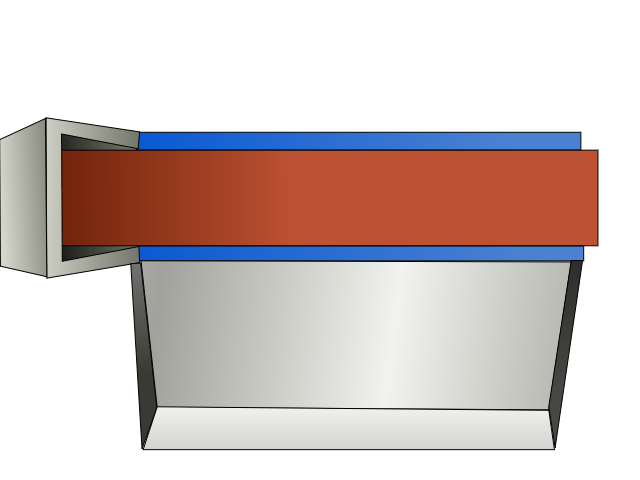
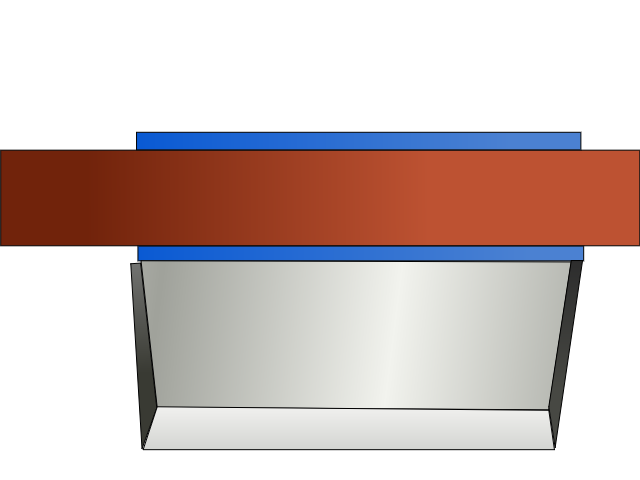
Improve assets + condiment placement + reset burger

Changed region(s): [[0.0, 0.2188, 0.2188, 0.5938], [0.375, 0.3125, 0.5, 0.5312], [0.9062, 0.3125, 1.0, 0.5312]]

diff --git a/js/app.js b/js/app.js
@@ -14,6 +14,8 @@ var game = new Phaser.Game(
 var sprites = [
   'floor',
   'assembly_line',
+  'oven',
+  'inner_oven',
   'patties',
   'cheeses',
   'lettuces',
@@ -21,17 +23,20 @@ var sprites = [
   'tomatoes',
   'top_bun',
   'bottom_bun',
-  'mayo',
-  'mustard',
-  'ketchup',
+  'mayo_bottle1',
+  'mustard_bottle1',
+  'ketchup_bottle1',
   'patty',
   'cheese',
   'lettuce',
   'onion',
   'tomato',
-  'ketchup_bottle',
-  'mayo_bottle',
-  'mustard_bottle'
+  'ketchup_bottle2',
+  'mayo_bottle2',
+  'mustard_bottle2',
+  'ketchup',
+  'mayo',
+  'mustard'
 ];
 
 var ingredientMap = {
@@ -42,9 +47,17 @@ var ingredientMap = {
   'tomatoes': 'tomato',
   'top_bun': 'top_bun',
   'bottom_bun': 'bottom_bun',
-  'ketchup': 'ketchup_bottle',
-  'mayo': 'mayo_bottle',
-  'mustard': 'mustard_bottle',
+  'ketchup_bottle1': 'ketchup_bottle2',
+  'mayo_bottle1': 'mayo_bottle2',
+  'mustard_bottle1': 'mustard_bottle2',
+  'ketchup_bottle2': 'ketchup',
+  'mayo_bottle2': 'mayo',
+  'mustard_bottle2': 'mustard'
+};
+
+
+var config = {
+  HAMBURGER_SPEED: 0.5
 };
 
 var floor;
@@ -55,14 +68,14 @@ var cheeses;
 var lettuces;
 var onions;
 var tomatoes;
-var top_buns;
-var bottom_buns;
+var topBuns;
+var bottomBuns;
 var mustard;
 var ketchup;
 var mayo;
 
 var selectedIngredient;
-
+var condiments = ['mustard_bottle1', 'mayo_bottle1', 'ketchup_bottle1']
 var hamburger;
 
 
@@ -75,42 +88,52 @@ function preload() {
 
 function create() {
   floor = game.add.sprite(0, 0, 'floor');
+  inner_oven = game.add.sprite(60, 125, 'inner_oven');
   assemblyLine = game.add.sprite(0, 0, 'assembly_line');
 
   hamburger = game.add.group();
-  hamburger.create(70, 170, 'bottom_bun');
+  hamburger.create(0, 170, 'bottom_bun');
   hamburger.setAll('inputEnabled', true);
   hamburger.callAll('events.onInputDown.add', 'events.onInputDown', placeIngredient);
+
+  oven = game.add.sprite(0, 118, 'oven');
 
   patties = game.add.sprite(160, 260, 'patties');
   cheeses = game.add.sprite(240, 270, 'cheeses');
   lettuces = game.add.sprite(315, 265, 'lettuces');
   onions = game.add.sprite(400, 270, 'onions');
   tomatoes = game.add.sprite(485, 280, 'tomatoes');
-  top_buns = game.add.sprite(170, 335, 'top_bun');
-  bottom_buns = game.add.sprite(250, 345, 'bottom_bun');
-  mayo = game.add.sprite(330, 335, 'mayo');
-  mustard = game.add.sprite(390, 345, 'mustard');
-  ketchup = game.add.sprite(455, 335, 'ketchup');
+  topBuns = game.add.sprite(170, 335, 'top_bun');
+  bottomBuns = game.add.sprite(250, 345, 'bottom_bun');
+  mayoBottle = game.add.sprite(330, 335, 'mayo_bottle1');
+  mustardBottle = game.add.sprite(390, 345, 'mustard_bottle1');
+  ketchupBottle = game.add.sprite(455, 335, 'ketchup_bottle1');
 
-  var ingredients = [patties, cheeses, lettuces, onions, tomatoes, top_buns, bottom_buns, ketchup, mustard, mayo];
-  ingredients.forEach(function(element) {
-    element.inputEnabled = true;
-    element.events.onInputUp.add(pickUpIngredient, this);
+  var ingredients = [patties, cheeses, lettuces, onions, tomatoes, topBuns,
+                     bottomBuns, ketchupBottle, mustardBottle, mayoBottle];
+  ingredients.forEach(function(ingredient) {
+    ingredient.inputEnabled = true;
+    ingredient.events.onInputUp.add(pickUpIngredient, this);
   });
 }
 
 
 function pickUpIngredient(sprite, pointer) {
   selectedIngredient = game.add.sprite(pointer.x, pointer.y, ingredientMap[sprite.key]);
-  selectedIngredient.anchor.setTo(0.5, 0.5);
+  if (condiments.indexOf(sprite.key) >= 0) {
+    selectedIngredient.anchor.setTo(0.15, 0.85);
+  } else {
+    selectedIngredient.anchor.setTo(0.5, 0.5);
+  }
 }
 
 
 function placeIngredient(sprite, pointer) {
   if (selectedIngredient) {
-    var lastIngredient = hamburger.children[hamburger.children.length - 1]
-    hamburger.create(lastIngredient.x, lastIngredient.y - 5, selectedIngredient.key);
+    var lastIngredient = hamburger.children[hamburger.children.length - 1];
+    var spriteKey = ingredientMap[selectedIngredient.key] || selectedIngredient.key;
+    console.log(spriteKey);
+    hamburger.create(lastIngredient.x, lastIngredient.y - 5, spriteKey);
     hamburger.setAll('inputEnabled', true);
     hamburger.callAll('events.onInputDown.add', 'events.onInputDown', placeIngredient);
   }
@@ -118,9 +141,12 @@ function placeIngredient(sprite, pointer) {
 
 
 function update() {
-  hamburger.x += 1;
-  if (hamburger.x > 500) {
-    hamburger.x = 70;
+  hamburger.x += config.HAMBURGER_SPEED;
+  if (hamburger.x > game.width) {
+    hamburger.children.slice(1).forEach(function(ingredient) {
+      hamburger.remove(ingredient);
+    });
+    hamburger.x = 0;
   }
 
   if (selectedIngredient) {
@@ -133,6 +159,7 @@ function update() {
     selectedIngredient = null;
   }
 }
+
 
 function render() {
 
